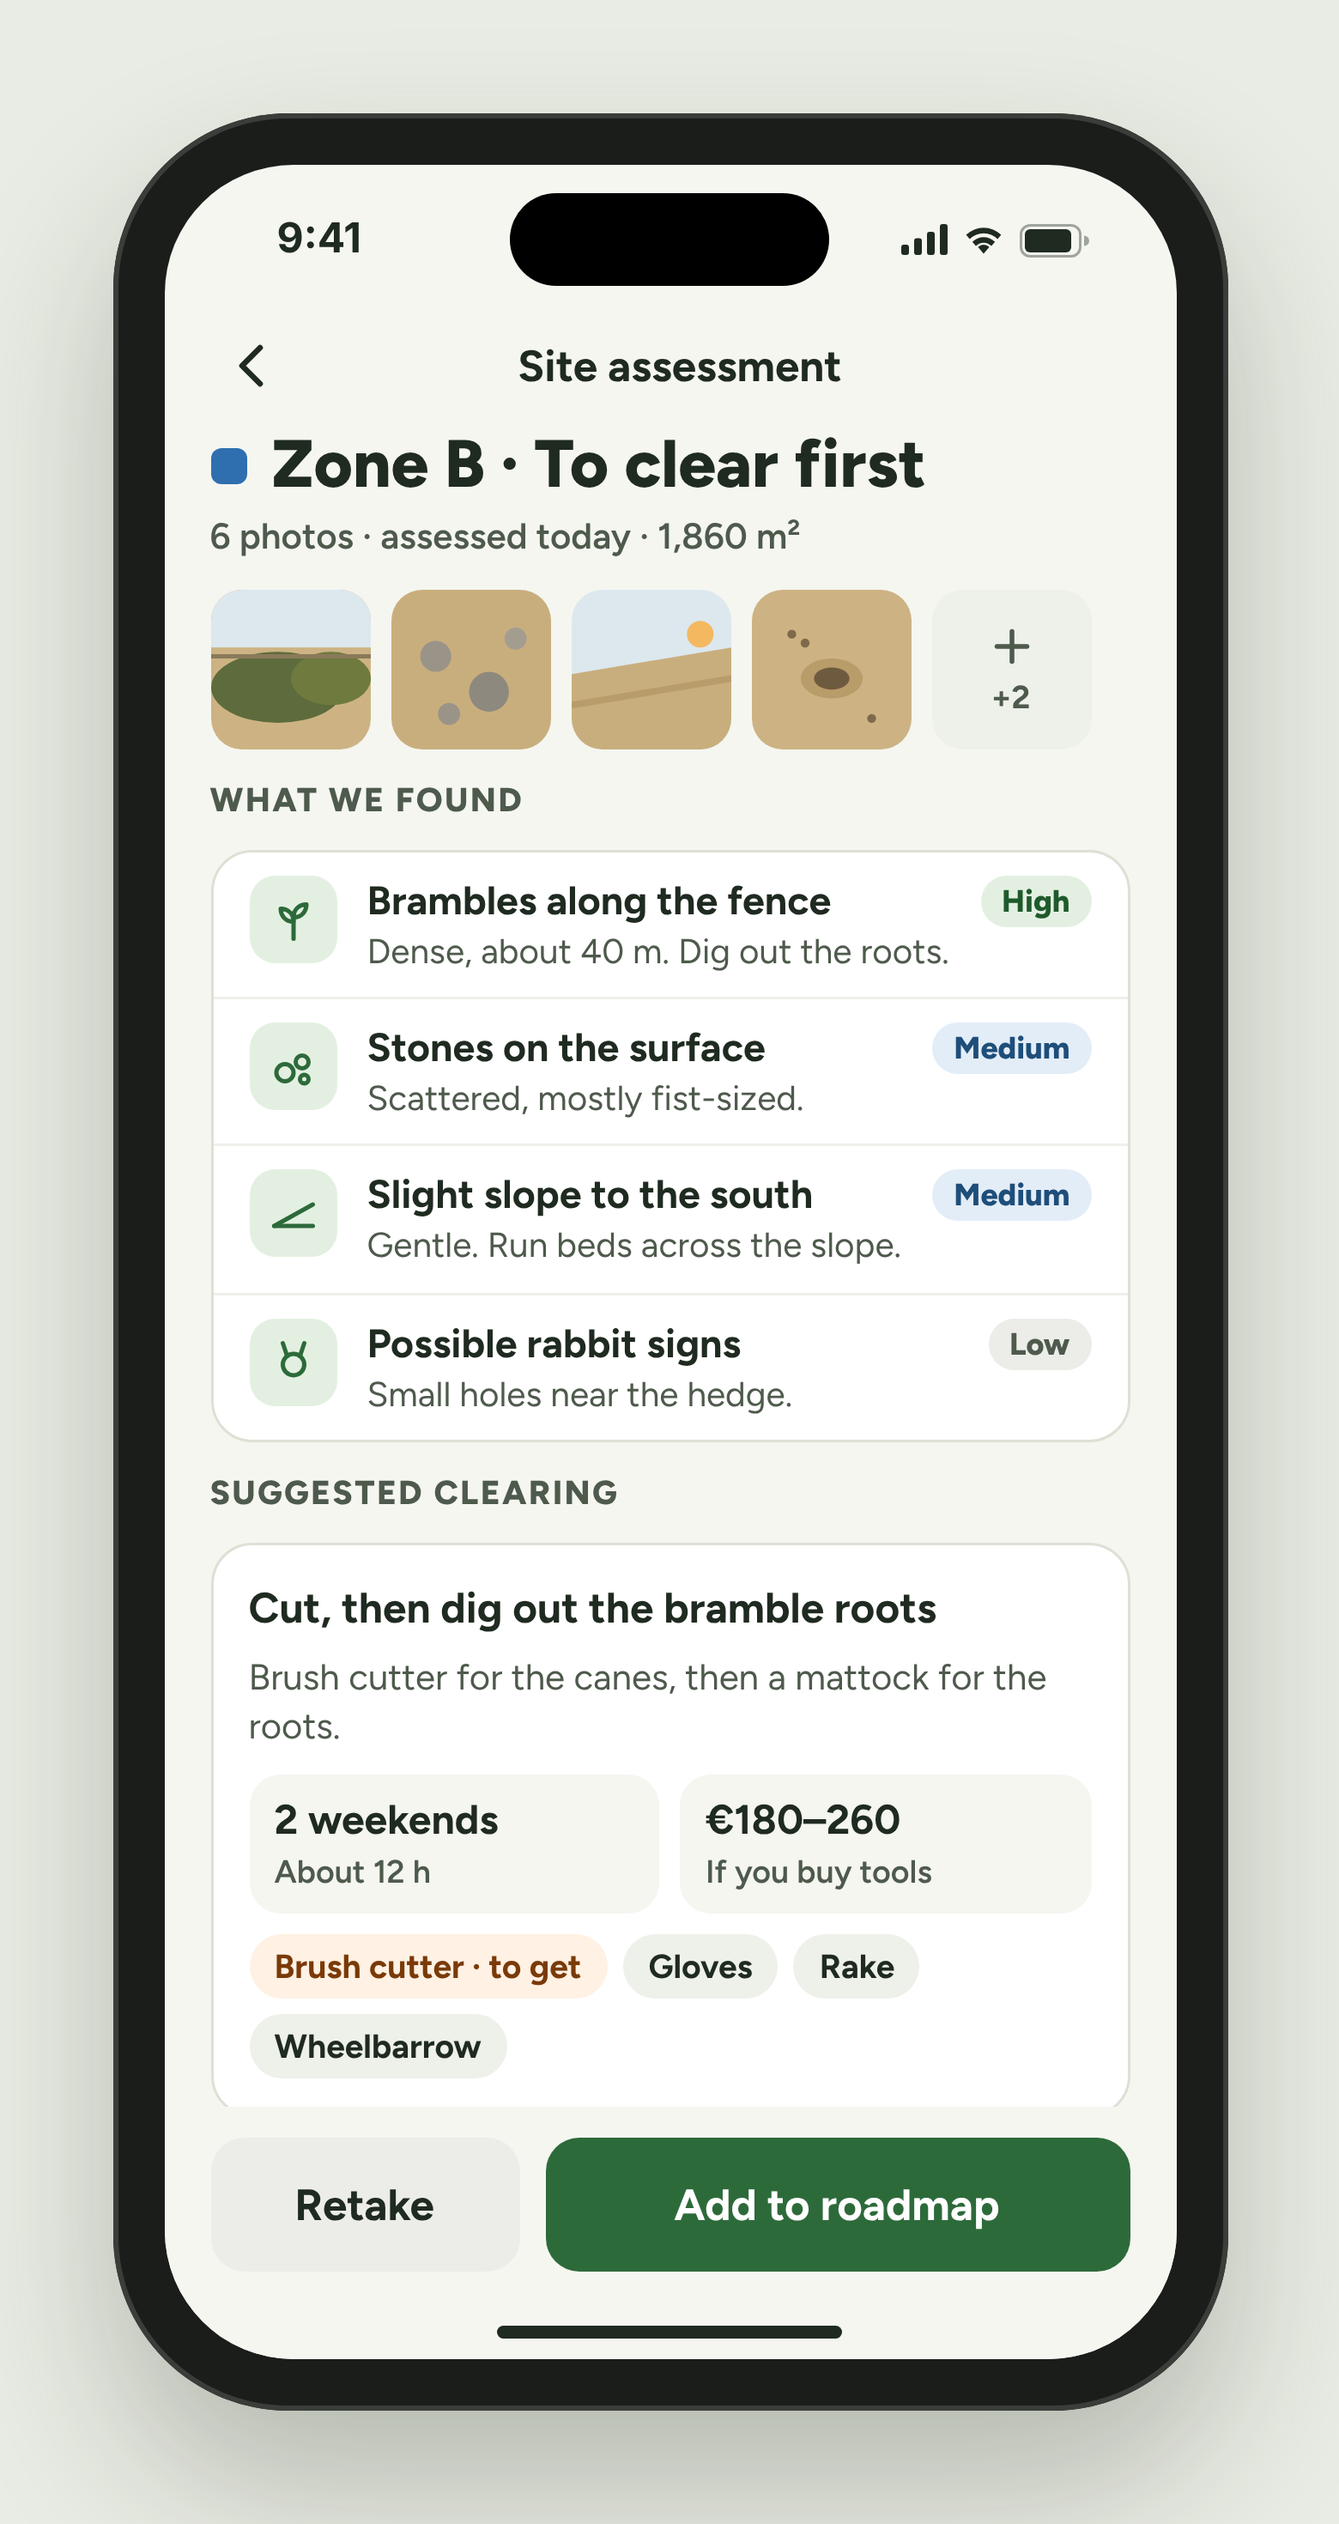
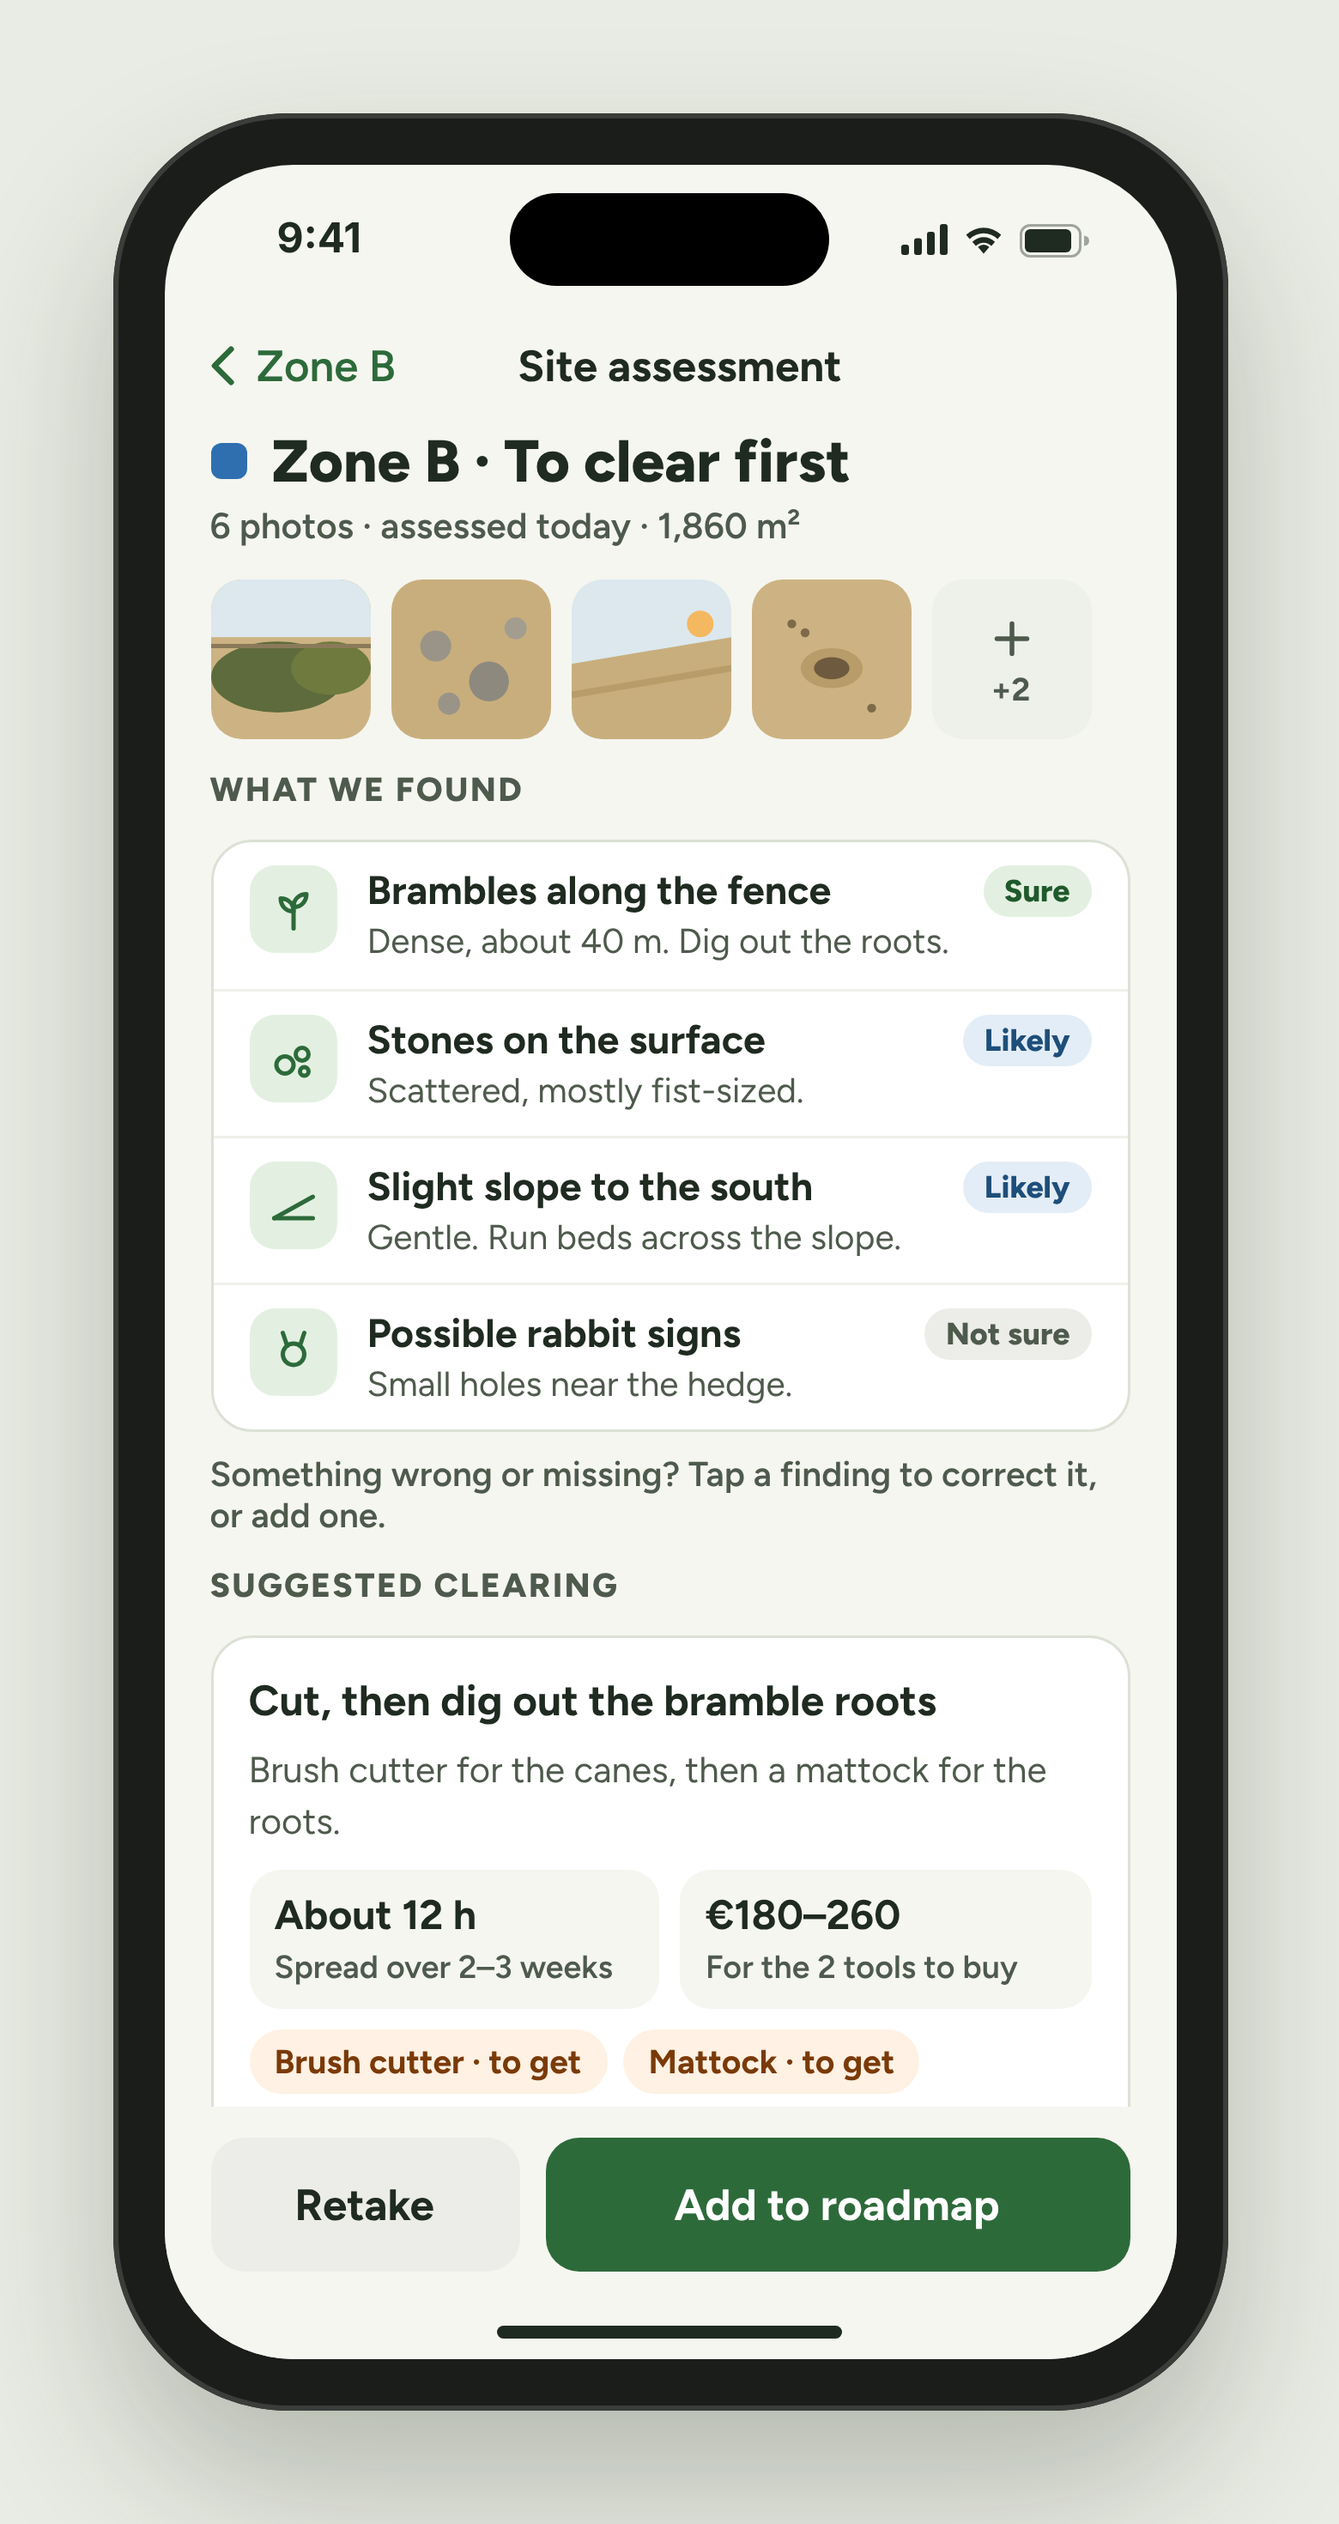
Design C5 site assessment: Zone B back label, plain confidence words, correct findings, mattock to get
Claude-Session: https://claude.ai/code/session_015NynAjU4naPZwzmeuGazot

diff --git a/design/source/C5-site-assessment-full.html b/design/source/C5-site-assessment-full.html
@@ -1,0 +1,120 @@
+<!doctype html>
+<html lang="en">
+<head>
+<meta charset="utf-8">
+<title>C5 Site assessment</title>
+<link href="https://fonts.googleapis.com/css2?family=Figtree:wght@400;500;600;700;800&display=swap" rel="stylesheet">
+<link rel="stylesheet" href="frame.css">
+<style>
+  .nav { display: flex; align-items: center; gap: 8px; padding: 0 12px; height: 48px; flex: none; }
+  .nav .back { width: 44px; height: 44px; display: flex; align-items: center; justify-content: center; }
+  .nav .title { flex: 1; text-align: center; font-size: 17px; font-weight: 700; margin-right: 96px; }
+  .content { flex: 1; overflow: hidden; padding: 0 18px 0; display: flex; flex-direction: column; gap: 12px; }
+  .head { display: flex; align-items: center; gap: 10px; }
+  .dot { width: 14px; height: 14px; border-radius: 4px; background: #2F6FB0; flex: none; }
+  h1 { margin: 0; font-size: 23px; font-weight: 800; line-height: 1.15; }
+  .meta { font-size: 14px; color: var(--muted); font-weight: 600; }
+  .thumbs { display: flex; gap: 8px; }
+  .thumbs svg { border-radius: 12px; flex: none; }
+  .more { width: 62px; height: 62px; border-radius: 12px; background: #EEF0EA; display: flex; align-items: center; justify-content: center; flex-direction: column; font-size: 12.5px; font-weight: 700; color: var(--muted); gap: 2px; }
+  .card { background: #fff; border: 1px solid var(--line); border-radius: 16px; }
+  .sec { font-size: 13px; font-weight: 800; text-transform: uppercase; letter-spacing: .06em; color: var(--muted); }
+  .find { display: flex; gap: 12px; align-items: flex-start; padding: 9px 14px; border-bottom: 1px solid #EEF0EA; }
+  .find:last-child { border-bottom: none; }
+  .find .ic { width: 34px; height: 34px; border-radius: 10px; background: var(--green-soft); display: flex; align-items: center; justify-content: center; flex: none; }
+  .find b { display: block; font-size: 15.5px; }
+  .find span.d { font-size: 13.5px; color: var(--muted); line-height: 1.35; }
+  .conf { margin-left: auto; flex: none; font-size: 12px; font-weight: 800; padding: 3px 8px; border-radius: 999px; }
+  .hi { background: #E3F0E1; color: #1F5A2C; }
+  .md { background: #E3EDF7; color: #1E4E7A; }
+  .lo { background: #ECEDE8; color: #4E5A4C; }
+  .plan { padding: 14px; display: flex; flex-direction: column; gap: 8px; }
+  .plan b { font-size: 16.5px; }
+  .plan p { margin: 0; font-size: 14px; color: var(--muted); line-height: 1.4; }
+  .stats { display: flex; gap: 8px; }
+  .stats div { flex: 1; background: var(--bg); border-radius: 12px; padding: 8px 10px; }
+  .stats strong { display: block; font-size: 16px; }
+  .stats span { font-size: 12.5px; color: var(--muted); font-weight: 600; }
+  .tools { display: flex; gap: 6px; flex-wrap: wrap; }
+  .tool { font-size: 13px; font-weight: 700; padding: 5px 10px; border-radius: 999px; background: #EEF0EA; }
+  .tool.miss { background: var(--orange-soft); color: #7A3A08; }
+  .footer { padding: 12px 18px 34px; background: linear-gradient(rgba(245,246,240,0), var(--bg) 22%); display: flex; gap: 10px; flex: none; }
+</style>
+<style>.stage{height:1010px}.phone{height:950px}.screen{height:910px}</style>
+</head>
+<body>
+<div class="stage"><div class="phone"><div class="screen">
+  <div class="island"></div>
+  <div class="status">
+    <span>9:41</span>
+    <span class="icons">
+      <svg width="18" height="12" viewBox="0 0 18 12"><rect x="0" y="8" width="3" height="4" rx="1" fill="#1F2A20"/><rect x="5" y="5.5" width="3" height="6.5" rx="1" fill="#1F2A20"/><rect x="10" y="3" width="3" height="9" rx="1" fill="#1F2A20"/><rect x="15" y="0" width="3" height="12" rx="1" fill="#1F2A20"/></svg>
+      <svg width="16" height="12" viewBox="0 0 16 12"><path d="M8 11.5l2.2-2.6a3.2 3.2 0 0 0-4.4 0z" fill="#1F2A20"/><path d="M3.6 6.9a6.3 6.3 0 0 1 8.8 0l-1.4 1.6a4.2 4.2 0 0 0-6 0z" fill="#1F2A20"/><path d="M1.2 4.2a9.7 9.7 0 0 1 13.6 0l-1.4 1.6a7.6 7.6 0 0 0-10.8 0z" fill="#1F2A20"/></svg>
+      <svg width="27" height="13" viewBox="0 0 27 13"><rect x="0.5" y="0.5" width="23" height="12" rx="3.5" fill="none" stroke="#1F2A20" opacity=".4"/><rect x="2" y="2" width="18" height="9" rx="2" fill="#1F2A20"/><path d="M25 4.5v4a2 2 0 0 0 0-4z" fill="#1F2A20" opacity=".4"/></svg>
+    </span>
+  </div>
+
+  <div class="nav">
+    <div class="back" style="width: 96px; justify-content: flex-start; gap: 2px; color: var(--green); font-size: 17px; font-weight: 600"><svg width="22" height="22" viewBox="0 0 24 24" fill="none" stroke="#2D6A3A" stroke-width="2.4" stroke-linecap="round" stroke-linejoin="round"><path d="M15 5l-7 7 7 7"/></svg>Zone B</div>
+    <div class="title">Site assessment</div>
+  </div>
+
+  <div class="content">
+    <div>
+      <div class="head"><i class="dot"></i><h1>Zone B · To clear first</h1></div>
+      <div class="meta" style="margin-top: 4px">6 photos · assessed today · 1,860 m²</div>
+    </div>
+
+    <div class="thumbs">
+      <svg width="62" height="62" viewBox="0 0 72 72" aria-hidden="true"><rect width="72" height="72" fill="#CDB383"/><rect y="0" width="72" height="26" fill="#DCE8EE"/><ellipse cx="30" cy="44" rx="30" ry="16" fill="#5E6B3C"/><ellipse cx="54" cy="40" rx="18" ry="12" fill="#6E7A3E"/><path d="M0 30 H72" stroke="#8A7A5A" stroke-width="2"/></svg>
+      <svg width="62" height="62" viewBox="0 0 72 72" aria-hidden="true"><rect width="72" height="72" fill="#C9AE7D"/><circle cx="20" cy="30" r="7" fill="#9A9488"/><circle cx="44" cy="46" r="9" fill="#8E897E"/><circle cx="56" cy="22" r="5" fill="#A39D90"/><circle cx="26" cy="56" r="5" fill="#9A9488"/></svg>
+      <svg width="62" height="62" viewBox="0 0 72 72" aria-hidden="true"><rect width="72" height="72" fill="#DCE8EE"/><path d="M0 38 L72 26 L72 72 L0 72 Z" fill="#C9AE7D"/><path d="M0 52 L72 40" stroke="#B89C69" stroke-width="3"/><circle cx="58" cy="20" r="6" fill="#F4B860"/></svg>
+      <svg width="62" height="62" viewBox="0 0 72 72" aria-hidden="true"><rect width="72" height="72" fill="#CDB383"/><ellipse cx="36" cy="40" rx="14" ry="9" fill="#B89C69"/><ellipse cx="36" cy="40" rx="8" ry="5" fill="#6E5A3E"/><g fill="#7E6A4A"><circle cx="18" cy="20" r="2"/><circle cx="24" cy="24" r="2"/><circle cx="54" cy="58" r="2"/></g></svg>
+      <div class="more"><svg width="20" height="20" viewBox="0 0 24 24" fill="none" stroke="#4E5A4C" stroke-width="2.2" stroke-linecap="round"><path d="M12 5v14M5 12h14"/></svg>+2</div>
+    </div>
+
+    <div class="sec">What we found</div>
+    <div class="card">
+      <div class="find">
+        <span class="ic"><svg width="20" height="20" viewBox="0 0 24 24" fill="none" stroke="#2D6A3A" stroke-width="2" stroke-linecap="round" stroke-linejoin="round"><path d="M12 21V9"/><path d="M12 13c-4 0-6-3-6-6 3 0 6 2 6 6zM12 11c0-4 3-6 6-6 0 3-2 6-6 6z"/></svg></span>
+        <div><b>Brambles along the fence</b><span class="d">Dense, about 40 m. Dig out the roots.</span></div>
+        <span class="conf hi">Sure</span>
+      </div>
+      <div class="find">
+        <span class="ic"><svg width="20" height="20" viewBox="0 0 24 24" fill="none" stroke="#2D6A3A" stroke-width="2" stroke-linecap="round"><circle cx="8" cy="15" r="4"/><circle cx="16" cy="10" r="3"/><circle cx="17" cy="18" r="2"/></svg></span>
+        <div><b>Stones on the surface</b><span class="d">Scattered, mostly fist-sized.</span></div>
+        <span class="conf md">Likely</span>
+      </div>
+      <div class="find">
+        <span class="ic"><svg width="20" height="20" viewBox="0 0 24 24" fill="none" stroke="#2D6A3A" stroke-width="2" stroke-linecap="round" stroke-linejoin="round"><path d="M3 18L21 8"/><path d="M3 18h18"/></svg></span>
+        <div><b>Slight slope to the south</b><span class="d">Gentle. Run beds across the slope.</span></div>
+        <span class="conf md">Likely</span>
+      </div>
+      <div class="find">
+        <span class="ic"><svg width="20" height="20" viewBox="0 0 24 24" fill="none" stroke="#2D6A3A" stroke-width="2" stroke-linecap="round" stroke-linejoin="round"><circle cx="12" cy="13" r="5"/><path d="M9 9L7 3M15 9l2-6"/></svg></span>
+        <div><b>Possible rabbit signs</b><span class="d">Small holes near the hedge.</span></div>
+        <span class="conf lo">Not sure</span>
+      </div>
+    </div>
+
+    <div class="meta" style="font-size: 13.5px; margin-top: -4px">Something wrong or missing? Tap a finding to correct it, or add one.</div>
+    <div class="sec">Suggested clearing</div>
+    <div class="card plan">
+      <b>Cut, then dig out the bramble roots</b>
+      <p>Brush cutter for the canes, then a mattock for the roots.</p>
+      <div class="stats">
+        <div><strong>About 12 h</strong><span>Spread over 2–3 weeks</span></div>
+        <div><strong>€180–260</strong><span>For the 2 tools to buy</span></div>
+      </div>
+      <div class="tools"><span class="tool miss">Brush cutter · to get</span><span class="tool miss">Mattock · to get</span><span class="tool">Gloves</span><span class="tool">Wheelbarrow</span></div>
+    </div>
+  </div>
+
+  <div class="footer">
+    <div class="btn secondary" style="width: 120px; flex: none">Retake</div>
+    <div class="btn primary" style="flex: 1">Add to roadmap</div>
+  </div>
+  <div class="home"></div>
+</div></div></div>
+</body>
+</html>

diff --git a/design/source/C5-site-assessment.html b/design/source/C5-site-assessment.html
@@ -8,11 +8,11 @@
 <style>
   .nav { display: flex; align-items: center; gap: 8px; padding: 0 12px; height: 48px; flex: none; }
   .nav .back { width: 44px; height: 44px; display: flex; align-items: center; justify-content: center; }
-  .nav .title { flex: 1; text-align: center; font-size: 17px; font-weight: 700; margin-right: 44px; }
+  .nav .title { flex: 1; text-align: center; font-size: 17px; font-weight: 700; margin-right: 96px; }
   .content { flex: 1; overflow: hidden; padding: 0 18px 0; display: flex; flex-direction: column; gap: 12px; }
   .head { display: flex; align-items: center; gap: 10px; }
   .dot { width: 14px; height: 14px; border-radius: 4px; background: #2F6FB0; flex: none; }
-  h1 { margin: 0; font-size: 26px; font-weight: 800; line-height: 1.15; }
+  h1 { margin: 0; font-size: 23px; font-weight: 800; line-height: 1.15; }
   .meta { font-size: 14px; color: var(--muted); font-weight: 600; }
   .thumbs { display: flex; gap: 8px; }
   .thumbs svg { border-radius: 12px; flex: none; }
@@ -54,7 +54,7 @@
   </div>
 
   <div class="nav">
-    <div class="back"><svg width="24" height="24" viewBox="0 0 24 24" fill="none" stroke="#1F2A20" stroke-width="2.2" stroke-linecap="round" stroke-linejoin="round"><path d="M15 5l-7 7 7 7"/></svg></div>
+    <div class="back" style="width: 96px; justify-content: flex-start; gap: 2px; color: var(--green); font-size: 17px; font-weight: 600"><svg width="22" height="22" viewBox="0 0 24 24" fill="none" stroke="#2D6A3A" stroke-width="2.4" stroke-linecap="round" stroke-linejoin="round"><path d="M15 5l-7 7 7 7"/></svg>Zone B</div>
     <div class="title">Site assessment</div>
   </div>
 
@@ -77,34 +77,35 @@
       <div class="find">
         <span class="ic"><svg width="20" height="20" viewBox="0 0 24 24" fill="none" stroke="#2D6A3A" stroke-width="2" stroke-linecap="round" stroke-linejoin="round"><path d="M12 21V9"/><path d="M12 13c-4 0-6-3-6-6 3 0 6 2 6 6zM12 11c0-4 3-6 6-6 0 3-2 6-6 6z"/></svg></span>
         <div><b>Brambles along the fence</b><span class="d">Dense, about 40 m. Dig out the roots.</span></div>
-        <span class="conf hi">High</span>
+        <span class="conf hi">Sure</span>
       </div>
       <div class="find">
         <span class="ic"><svg width="20" height="20" viewBox="0 0 24 24" fill="none" stroke="#2D6A3A" stroke-width="2" stroke-linecap="round"><circle cx="8" cy="15" r="4"/><circle cx="16" cy="10" r="3"/><circle cx="17" cy="18" r="2"/></svg></span>
         <div><b>Stones on the surface</b><span class="d">Scattered, mostly fist-sized.</span></div>
-        <span class="conf md">Medium</span>
+        <span class="conf md">Likely</span>
       </div>
       <div class="find">
         <span class="ic"><svg width="20" height="20" viewBox="0 0 24 24" fill="none" stroke="#2D6A3A" stroke-width="2" stroke-linecap="round" stroke-linejoin="round"><path d="M3 18L21 8"/><path d="M3 18h18"/></svg></span>
         <div><b>Slight slope to the south</b><span class="d">Gentle. Run beds across the slope.</span></div>
-        <span class="conf md">Medium</span>
+        <span class="conf md">Likely</span>
       </div>
       <div class="find">
         <span class="ic"><svg width="20" height="20" viewBox="0 0 24 24" fill="none" stroke="#2D6A3A" stroke-width="2" stroke-linecap="round" stroke-linejoin="round"><circle cx="12" cy="13" r="5"/><path d="M9 9L7 3M15 9l2-6"/></svg></span>
         <div><b>Possible rabbit signs</b><span class="d">Small holes near the hedge.</span></div>
-        <span class="conf lo">Low</span>
+        <span class="conf lo">Not sure</span>
       </div>
     </div>
 
+    <div class="meta" style="font-size: 13.5px; margin-top: -4px">Something wrong or missing? Tap a finding to correct it, or add one.</div>
     <div class="sec">Suggested clearing</div>
     <div class="card plan">
       <b>Cut, then dig out the bramble roots</b>
       <p>Brush cutter for the canes, then a mattock for the roots.</p>
       <div class="stats">
-        <div><strong>2 weekends</strong><span>About 12 h</span></div>
-        <div><strong>€180–260</strong><span>If you buy tools</span></div>
+        <div><strong>About 12 h</strong><span>Spread over 2–3 weeks</span></div>
+        <div><strong>€180–260</strong><span>For the 2 tools to buy</span></div>
       </div>
-      <div class="tools"><span class="tool miss">Brush cutter · to get</span><span class="tool">Gloves</span><span class="tool">Rake</span><span class="tool">Wheelbarrow</span></div>
+      <div class="tools"><span class="tool miss">Brush cutter · to get</span><span class="tool miss">Mattock · to get</span><span class="tool">Gloves</span><span class="tool">Wheelbarrow</span></div>
     </div>
   </div>
 
